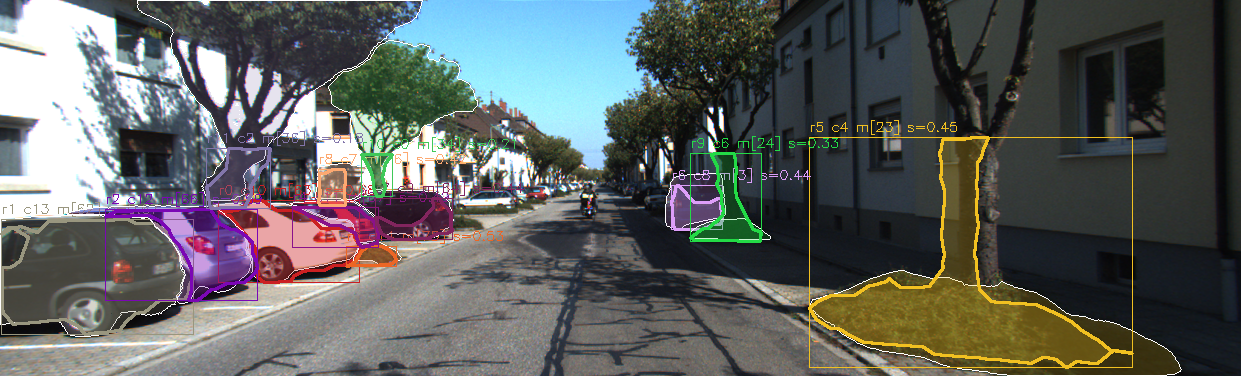
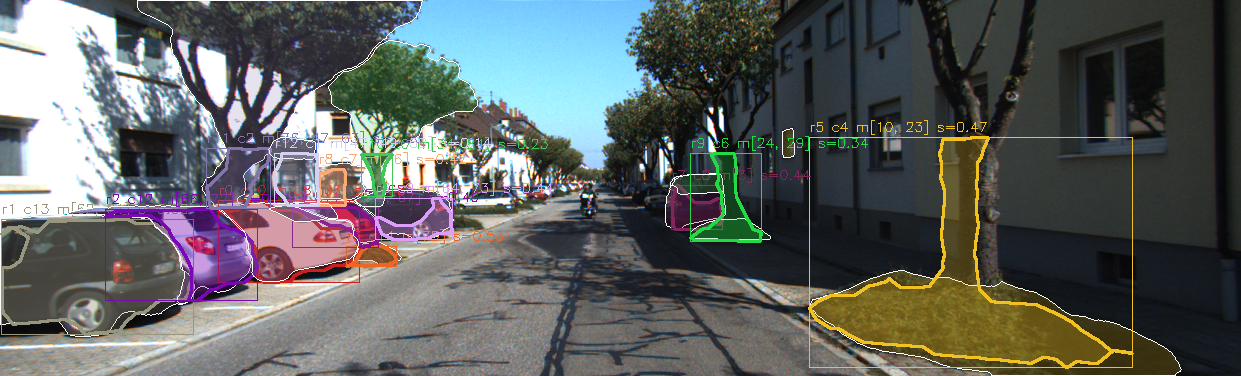
add closing in union mask

diff --git a/scripts/find_mask_cluster_groups.py b/scripts/find_mask_cluster_groups.py
@@ -290,10 +290,20 @@ def filter_sam_masks_basic(
 # =========================================================
 # Group mask generation
 # =========================================================
-def union_mask_from_ids(sam_masks: List[dict], mask_ids: Tuple[int, ...]) -> np.ndarray:
+def union_mask_from_ids(
+    sam_masks: List[dict],
+    mask_ids: Tuple[int, ...],
+    close_kernel: int = 7,
+    close_iter: int = 1,
+) -> np.ndarray:
     seg = np.zeros_like(sam_masks[0]["segmentation"], dtype=np.uint8)
     for mid in mask_ids:
         seg = np.logical_or(seg > 0, sam_masks[mid]["segmentation"] > 0).astype(np.uint8) * 255
+
+    if len(mask_ids) > 1 and close_kernel > 1 and close_iter > 0:
+        kernel = cv2.getStructuringElement(cv2.MORPH_ELLIPSE, (close_kernel, close_kernel))
+        seg = cv2.morphologyEx(seg, cv2.MORPH_CLOSE, kernel, iterations=close_iter)
+
     return seg
 
 
@@ -564,7 +574,7 @@ def find_best_mask_groups_for_clusters_greedy(
         image_shape=image_shape,
         near_margin=20,
         min_bbox_iou=0.0,
-        max_centroid_dist=120.0,
+        max_centroid_dist=300.0,
         debug_progress=debug_progress,
         progress_steps=progress_steps,
     )
@@ -712,101 +722,6 @@ def score_mask_group_against_cluster(
 
     return score, iou, bi, contain, biou, ar, cent
 
-
-# =========================================================
-# Main search
-# =========================================================
-def find_best_mask_groups_for_clusters(
-    sam_masks: List[dict],
-    projected_clusters: List[LoadedClusterMask],
-    image_shape: Tuple[int, int],
-    max_group_size: int = 2,
-    max_candidates_per_cluster: int = 12,
-    min_score: float = 0.10,
-    min_iou: float = 0.03,
-    min_containment: float = 0.20,
-    improve_margin: float = 0.05,
-    debug_progress: bool = False,
-    progress_steps: int = 10,
-) -> List[MaskGroupMatch]:
-    mask_graph = build_mask_adjacency(
-        sam_masks=sam_masks,
-        image_shape=image_shape,
-        near_margin=20,
-        min_bbox_iou=0.0,
-        max_centroid_dist=120.0,
-        debug_progress=debug_progress,
-        progress_steps=progress_steps,
-    )
-
-    all_matches: List[MaskGroupMatch] = []
-
-    total_clusters = len(projected_clusters)
-    for idx, proj in enumerate(projected_clusters):
-        log_progress(
-            debug_progress,
-            "cluster_group_search_exhaustive",
-            idx,
-            total_clusters,
-            progress_steps,
-            extra=f"cluster_id={proj.cluster_id}",
-        )
-
-        groups = generate_group_candidates_for_cluster(
-            sam_masks=sam_masks,
-            cluster_proj=proj,
-            image_shape=image_shape,
-            mask_graph=mask_graph,
-            max_group_size=max_group_size,
-            max_candidates=max_candidates_per_cluster,
-        )
-
-        best_single: Optional[MaskGroupMatch] = None
-        best_group: Optional[MaskGroupMatch] = None
-
-        for g in groups:
-            group_mask = union_mask_from_ids(sam_masks, g)
-            scored = score_mask_group_against_cluster(group_mask, proj)
-            if scored is None:
-                continue
-
-            score, iou, bi, contain, biou, ar, cent = scored
-
-            if score < min_score:
-                continue
-            if iou < min_iou and contain < min_containment:
-                continue
-
-            match = MaskGroupMatch(
-                cluster_id=proj.cluster_id,
-                mask_ids=g,
-                score=score,
-                iou=iou,
-                boundary_iou=bi,
-                containment=contain,
-                bbox_iou=biou,
-                area_ratio=ar,
-                centroid_score=cent,
-            )
-
-            if len(g) == 1:
-                if best_single is None or match.score > best_single.score:
-                    best_single = match
-
-            if best_group is None or match.score > best_group.score:
-                best_group = match
-
-        if best_group is None:
-            continue
-
-        if len(best_group.mask_ids) > 1 and best_single is not None:
-            if best_group.score < best_single.score + improve_margin:
-                best_group = best_single
-
-        all_matches.append(best_group)
-
-    all_matches.sort(key=lambda x: x.score, reverse=True)
-    return all_matches
 
 
 # =========================================================
@@ -956,13 +871,13 @@ def main() -> None:
     parser.add_argument("--cluster-boundary-dir", type=str, required=False, default="", help="Optional path to cluster boundary mask dir")
     parser.add_argument("--output-dir", type=str, required=True, help="Directory to save results")
 
-    parser.add_argument("--greedy-min-improve", type=float, default=0.01)
+    parser.add_argument("--greedy-min-improve", type=float, default=0.001)
     parser.add_argument("--max-group-size", type=int, default=0,
                         help="0 means unlimited greedy growth")
     parser.add_argument("--min-score", type=float, default=0.10)
     parser.add_argument("--min-iou", type=float, default=0.01)
     parser.add_argument("--min-containment", type=float, default=0.10)
-    parser.add_argument("--improve-margin", type=float, default=0.1)
+    parser.add_argument("--improve-margin", type=float, default=0.0)
     parser.add_argument("--min-mask-area", type=int, default=200)
     parser.add_argument("--max-mask-area-ratio", type=float, default=0.35)
     parser.add_argument("--top-k", type=int, default=15)
